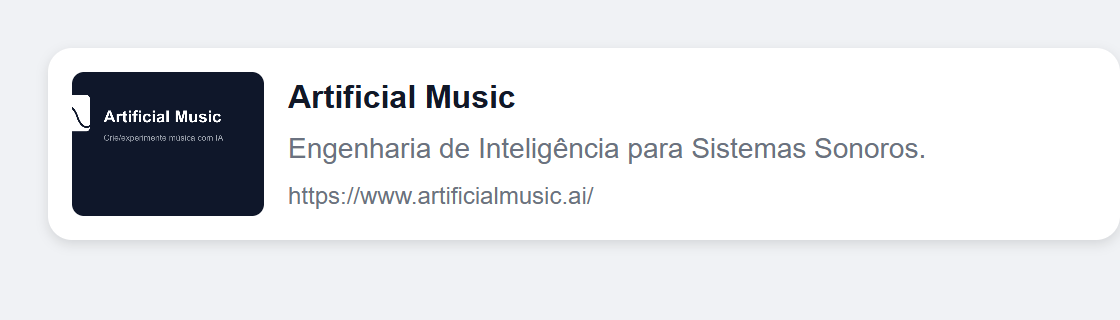
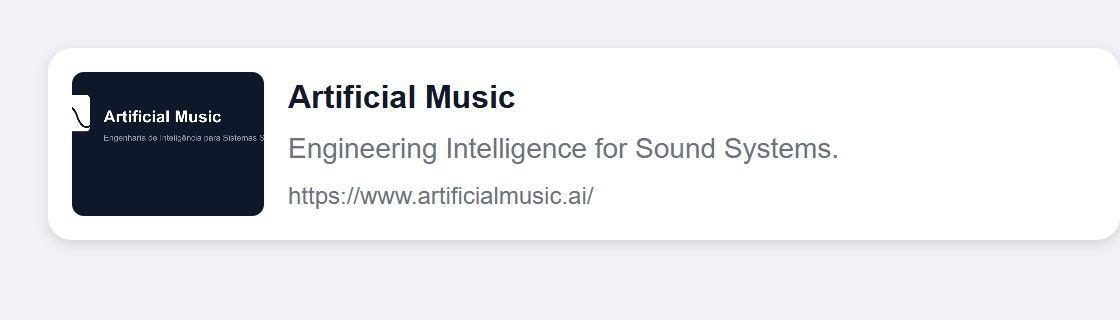
Set English as default preview text and regenerate assets

Changed region(s): [[0.2812, 0.4375, 0.8438, 0.5312], [0.0938, 0.4062, 0.2188, 0.4375]]

diff --git a/index.html b/index.html
@@ -8,7 +8,7 @@
 
     <!-- Open Graph / Social preview -->
     <meta property="og:title" content="Artificial Music" />
-    <meta property="og:description" content="Engenharia de Inteligência para Sistemas Sonoros." />
+    <meta property="og:description" content="Engineering Intelligence for Sound Systems." />
     <meta property="og:type" content="website" />
     <meta property="og:url" content="https://www.artificialmusic.ai/" />
     <meta property="og:image" content="https://www.artificialmusic.ai/assets/preview.png" />

diff --git a/scripts/render-whatsapp-preview.js b/scripts/render-whatsapp-preview.js
@@ -5,7 +5,7 @@ const path = require('path');
 const out = path.join(__dirname, '..', 'public', 'assets', 'whatsapp-preview.png');
 const og = {
   title: 'Artificial Music',
-  description: 'Engenharia de Inteligência para Sistemas Sonoros.',
+  description: 'Engineering Intelligence for Sound Systems.',
   image: 'https://www.artificialmusic.ai/assets/preview.png',
   url: 'https://www.artificialmusic.ai/'
 };